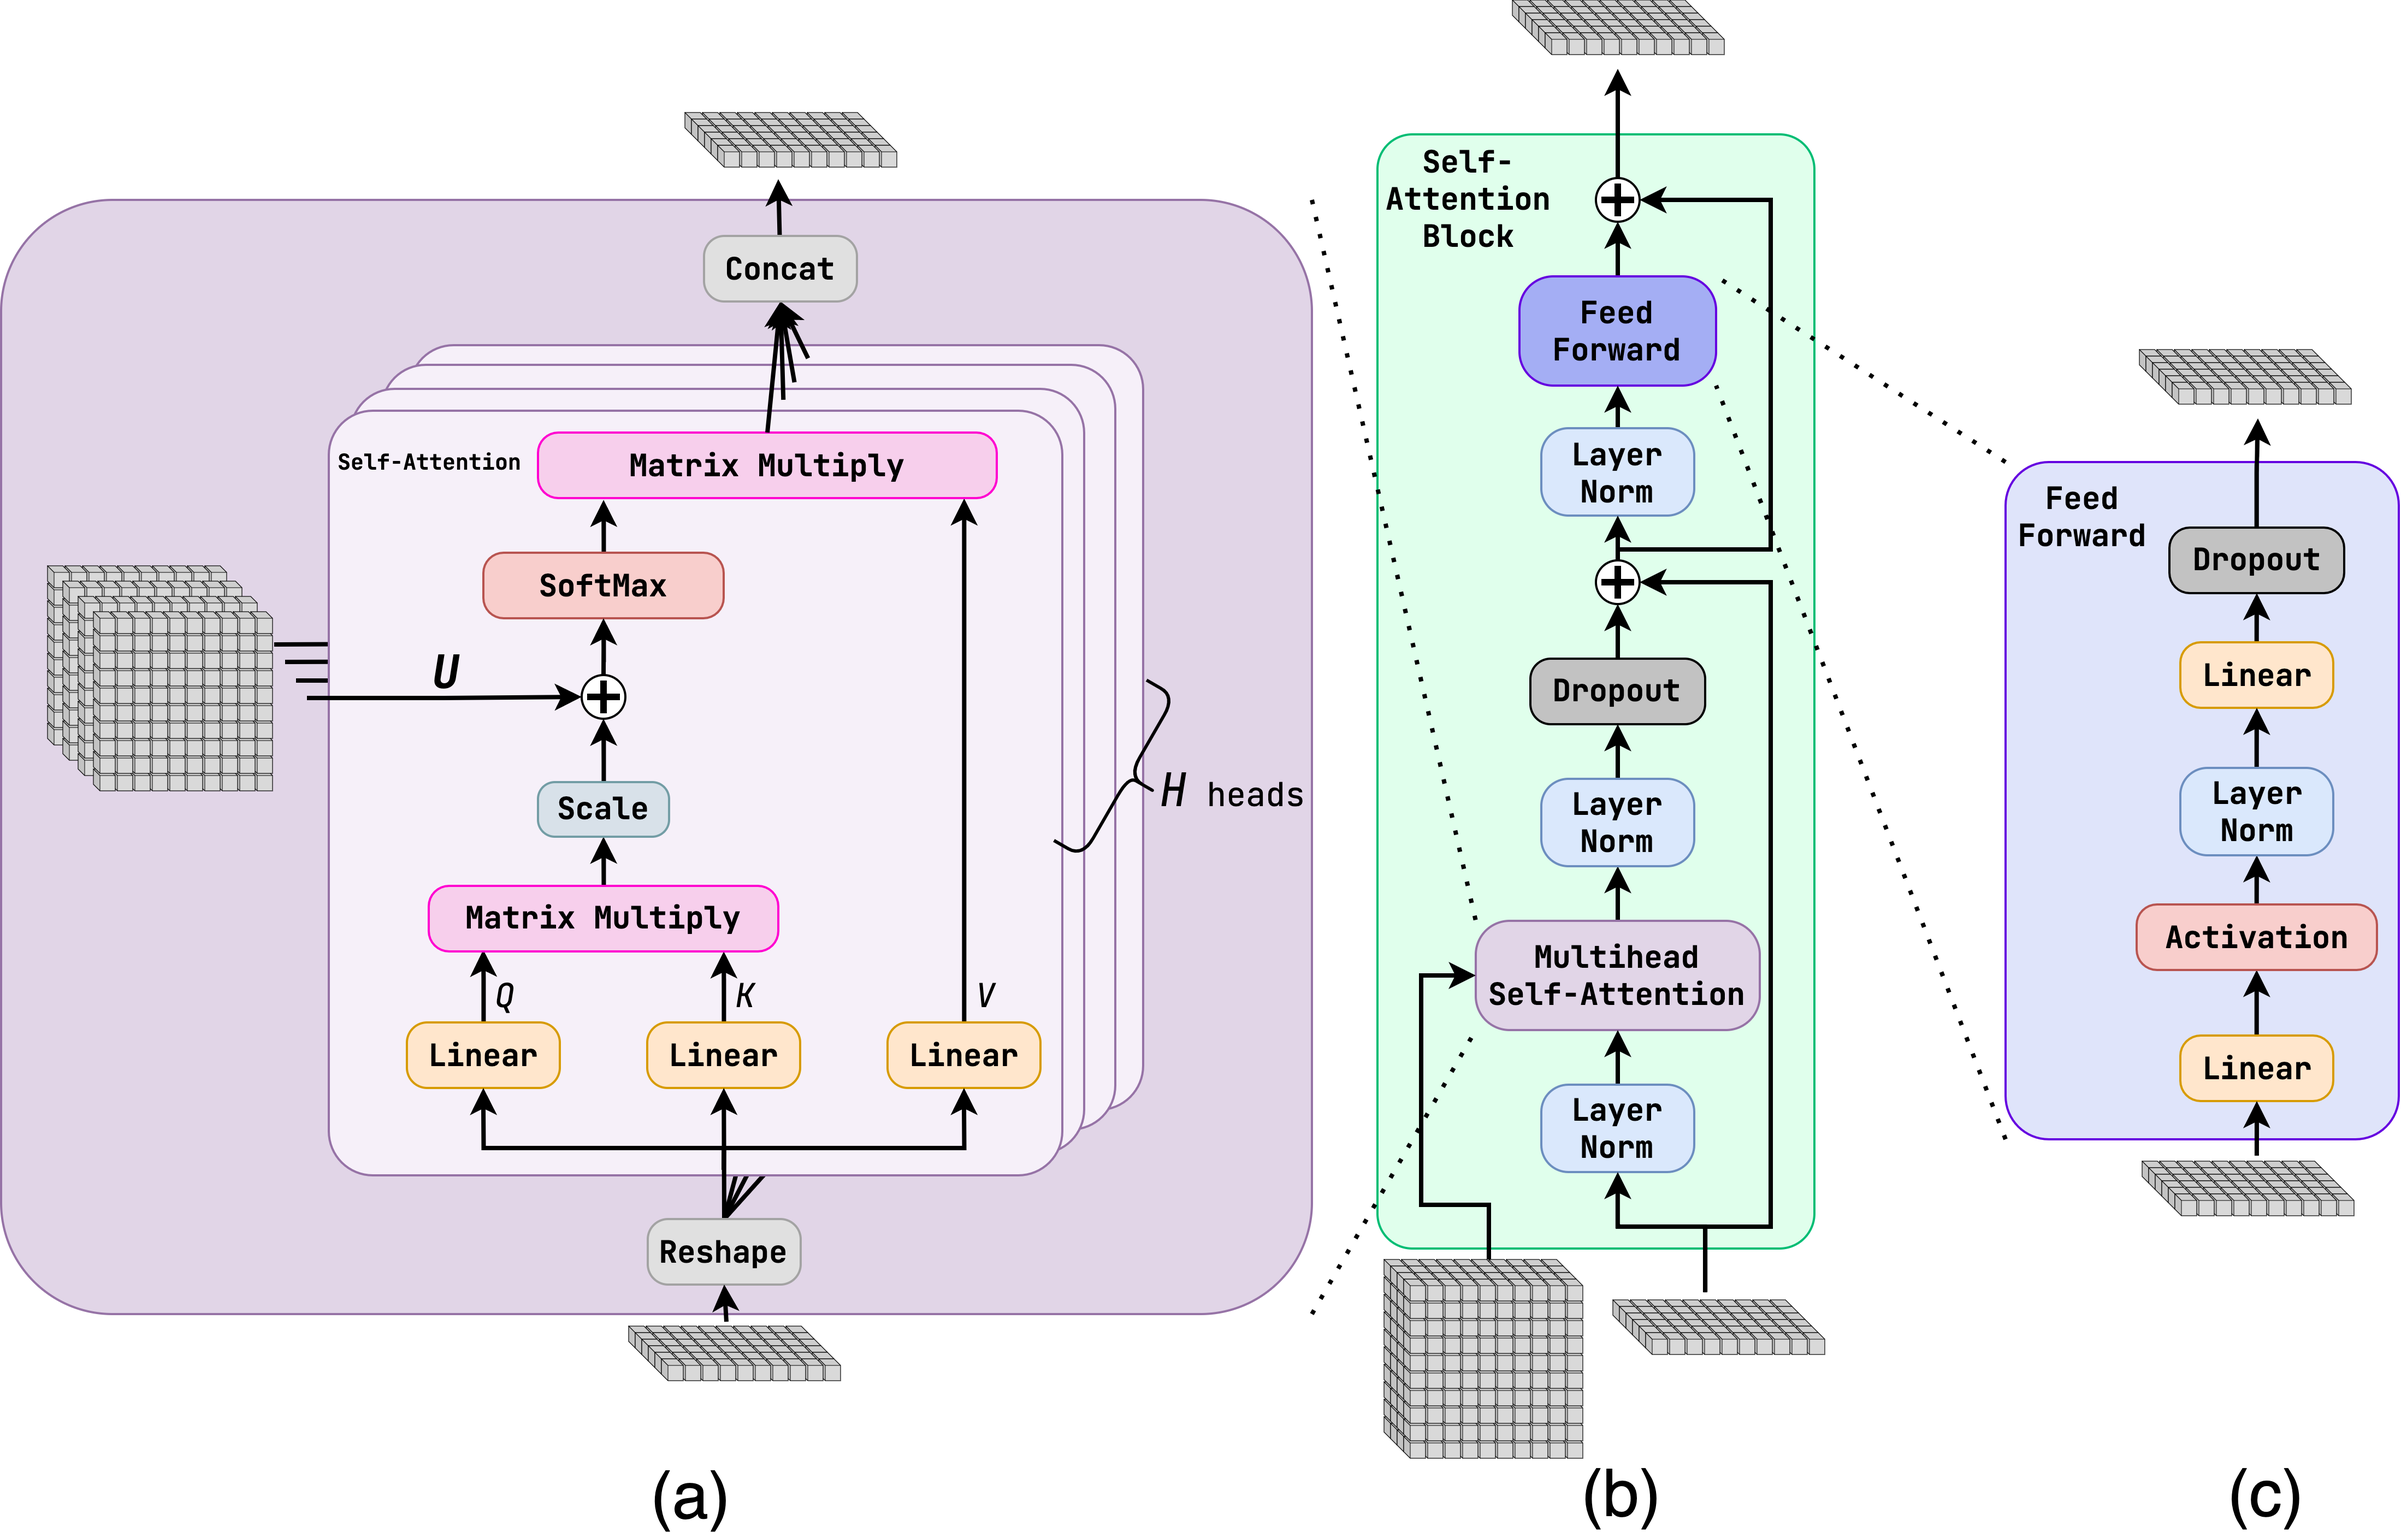
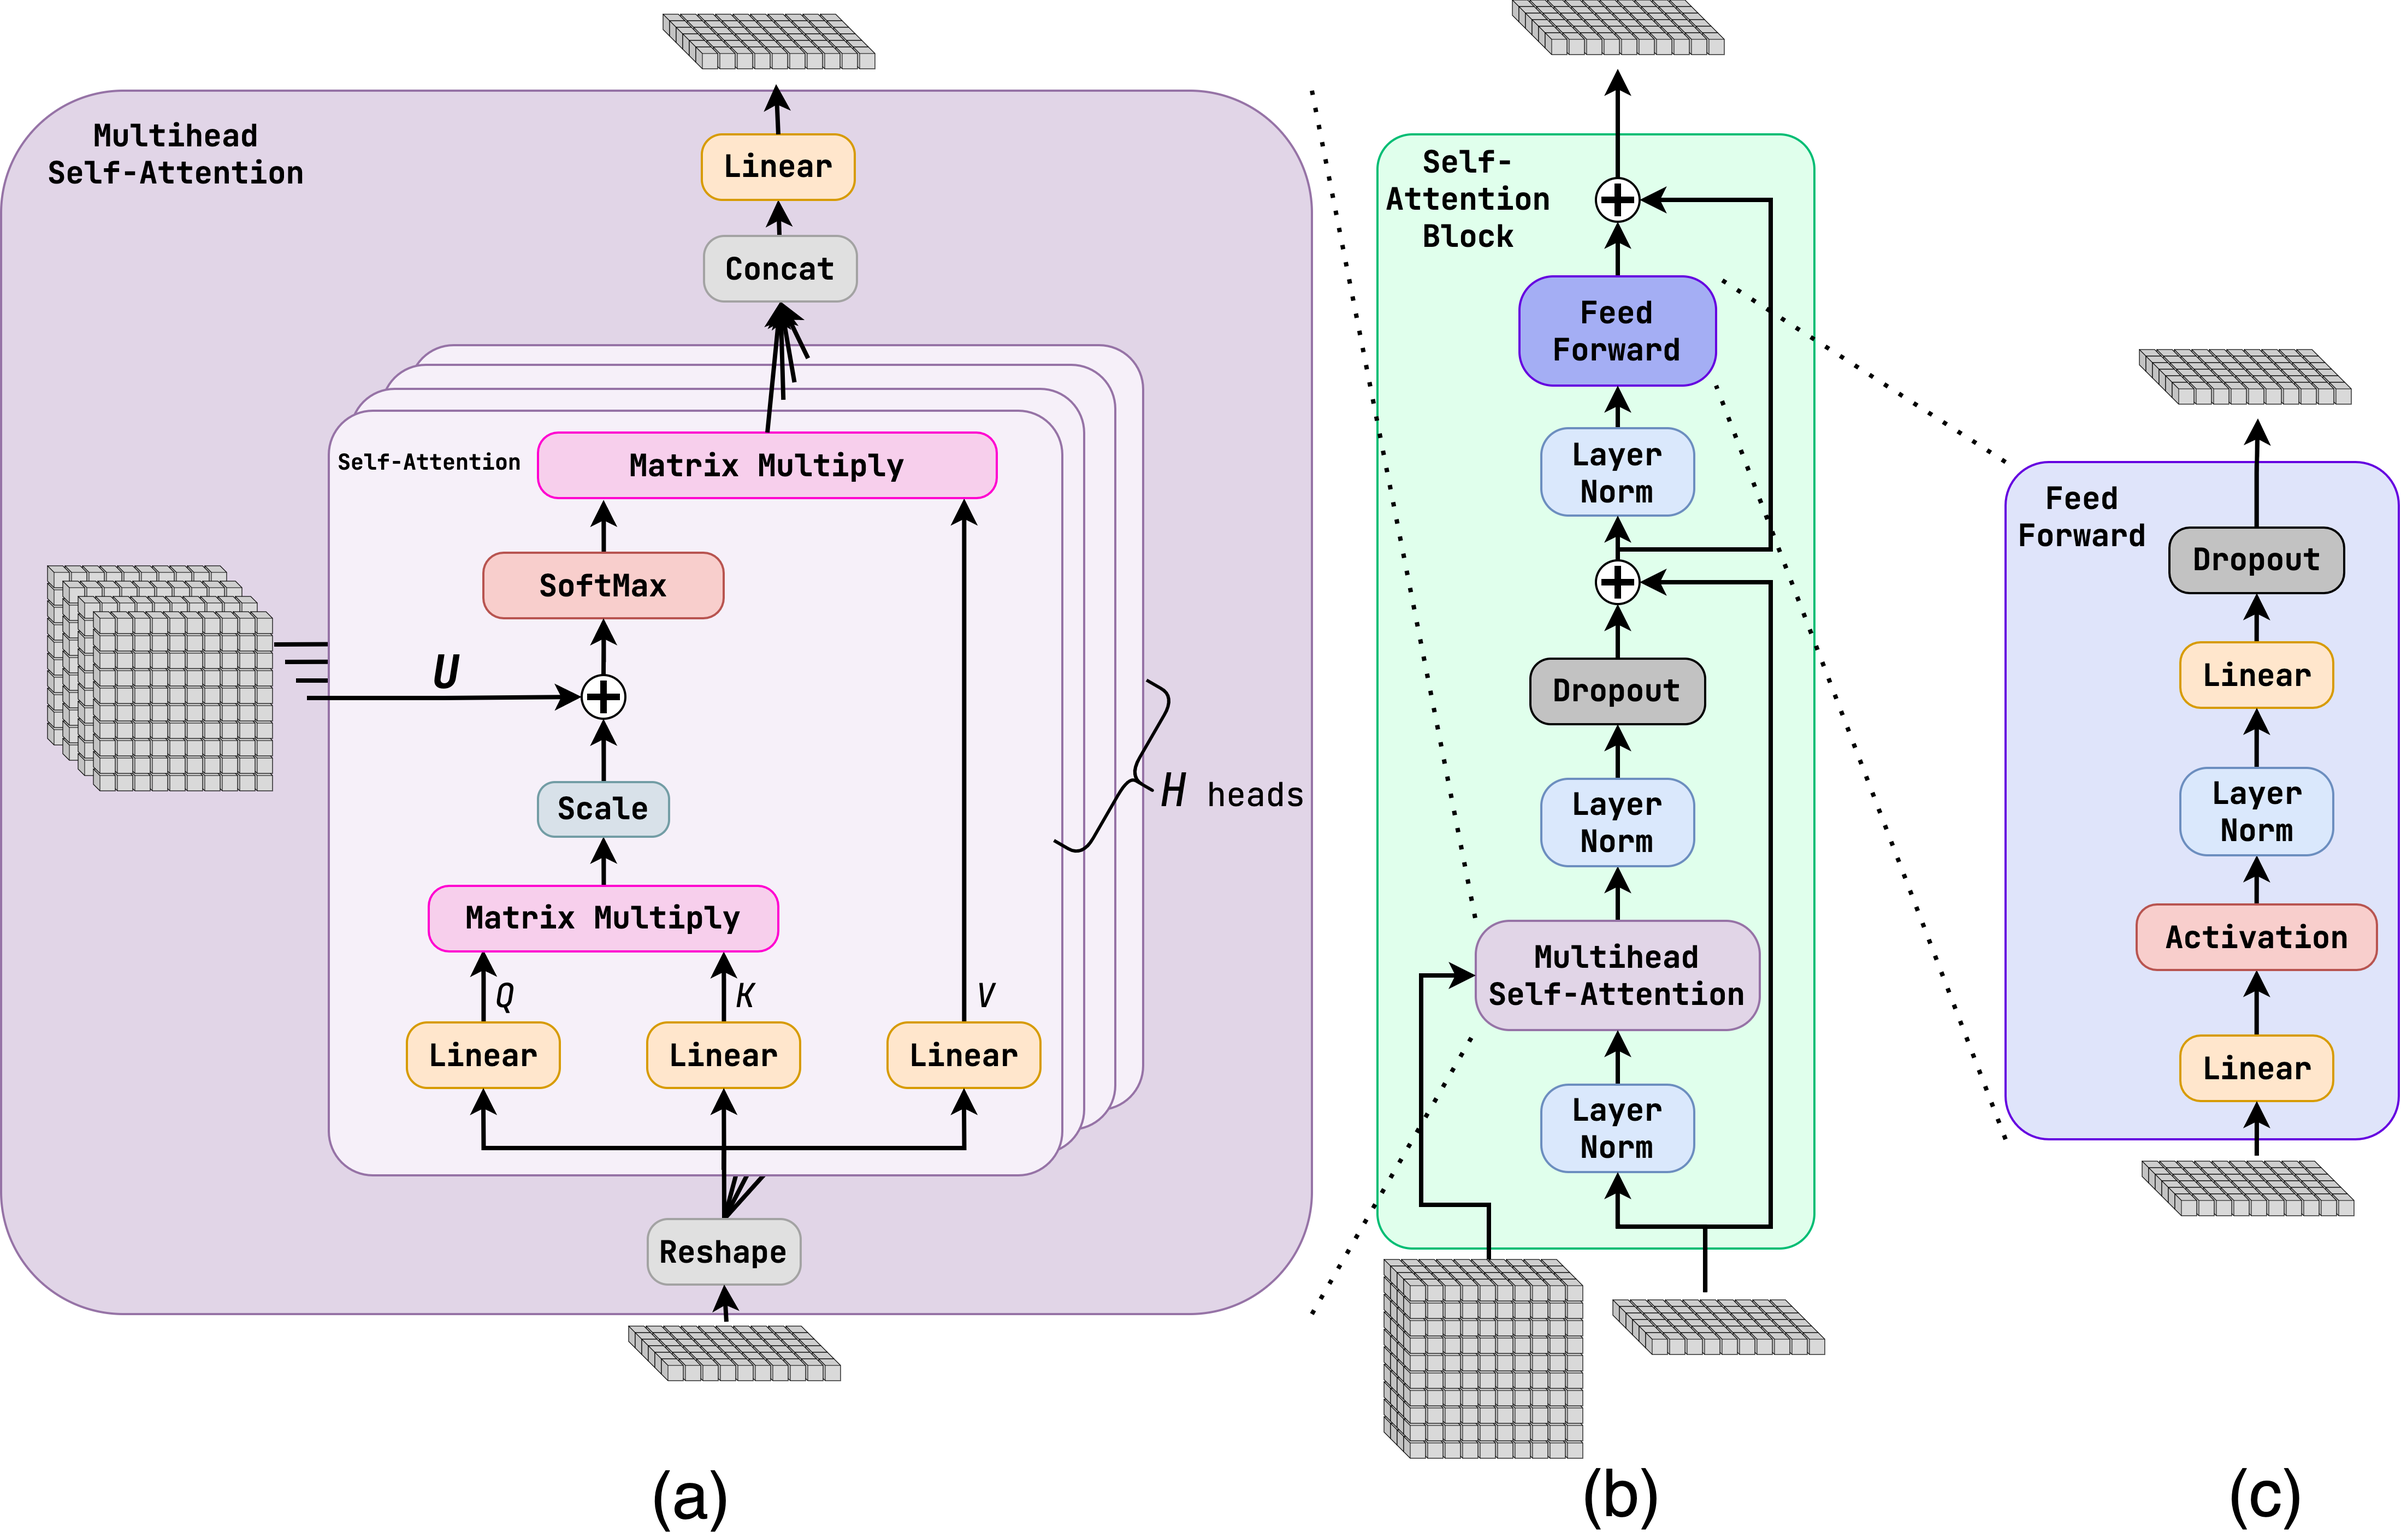
minor corrections

Changed region(s): [[0.0, 0.0, 0.561, 0.1875], [0.0, 0.8125, 0.0312, 0.8438]]

diff --git a/src/chapters/4_models.tex b/src/chapters/4_models.tex
@@ -500,14 +500,14 @@ However, the biggest downside of \PFN and \EFN is that they \textbf{do not allow
 \begin{figure}[htb]
     \centering
     \includegraphics[width=1.\linewidth]{src/diagrams/transformer.png}
-    \caption{Diagram of the Transformer. The \emph{Class Token} is represented as a blue row of boxes. Operations concerning the \emph{Class Token} are traced with a blue arrow.}
+    \caption{Diagram of the Transformer. The Class Token is represented as a blue row of boxes. Operations concerning the Class Token are traced with a blue arrow.}
     \label{fig:trans}
 \end{figure}
 
 \begin{figure}[htb]
     \centering
     \includegraphics[width=0.9\linewidth]{src/diagrams/transformer_layers.png}
-    \caption{Diagram of the Transformer layers. (b) is the \emph{Self-Attention Block}, with the main components being the \emph{Multihead Self-Attention} (a) and the \emph{Feed Forward Network} (c). The \emph{Class Token} is represented as a blue row of boxes.}
+    \caption{Diagram of the Transformer layers. (b) is the \emph{Self-Attention Block}, with the main components being the \emph{Multihead Self-Attention} (a) and the \emph{Feed Forward Network} (c). The Class Token is represented as a blue row of boxes.}
     \label{fig:trans_layers}
 \end{figure}
 
@@ -559,6 +559,7 @@ Each head is a separate Attention mechanism with the head dimension $d = C / H$,
 Each head's input and output shape is $B \times N \times C/H$, constructed by reshaping the input data to $B \times H \times N \times C/H$ (the calculations across the heads are done in parallel, hence the extra dimension).
 The heads are concatenated, resulting in an output of shape $B \times N \times C$.
 As a result, the argument of Attention must be scaled by $\sqrt{d}$, as stated in \cref{eq:attn}.
+At the end, a linear projection across the embedding dimension $C$ is done, to allow the heads to exchange some information. 
 
 \subsection{Feedforward Network}
 \label{sec:ffn}
